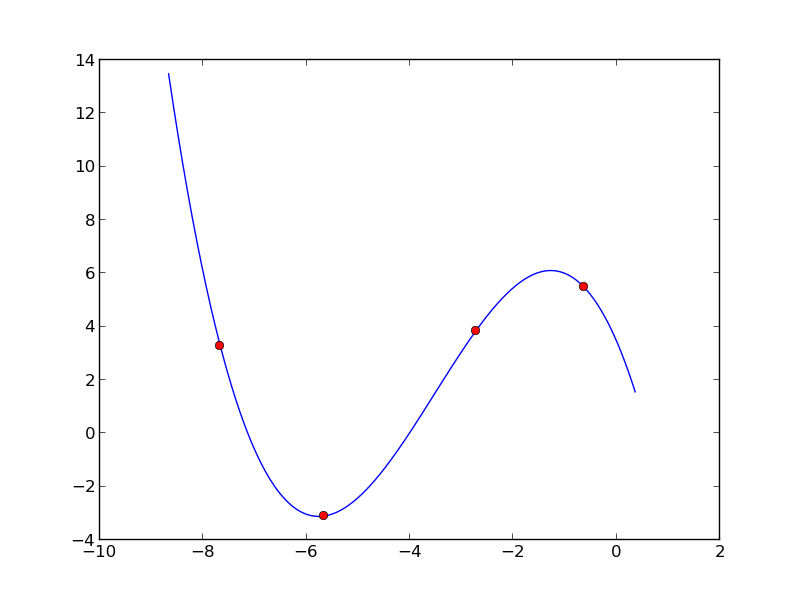
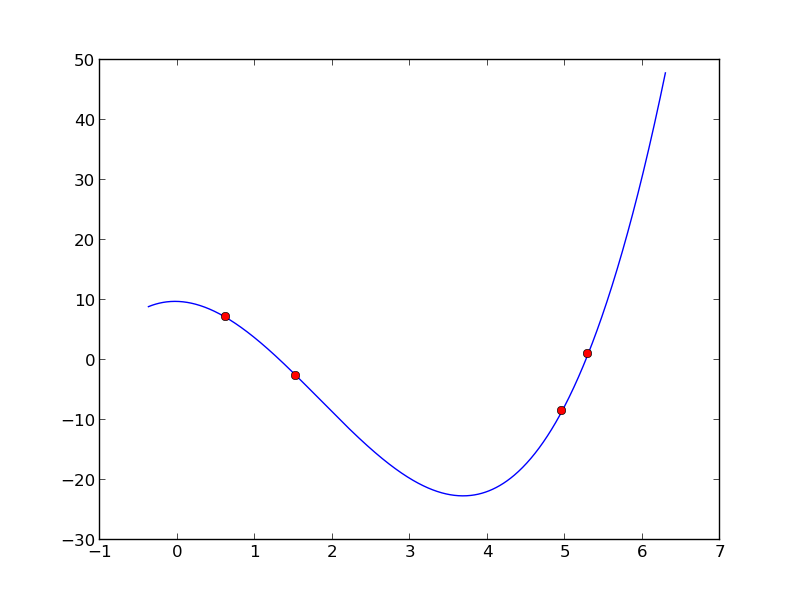
updated finished hw2 and fixed gitignore

diff --git a/homework2/hw2b.py b/homework2/hw2b.py
@@ -28,6 +28,21 @@ def cubic_interp(xi,yi):
 	c= np.linalg.solve(A,yi)
 	return c
 
+def poly_interp(xi,yi):
+	""" does a little cubic interpolation returning the coefficient array c"""	
+	error_message = "xi, yi need to be type numpy.ndarray"
+	assert (type(xi) is np.ndarray) and (type(yi) is np.ndarray), error_message
+	n = len(xi)
+	error_message = "You need the same number points"
+	assert (len(xi)==n) and (len(yi)==n), error_message
+	error_message = "The xi points have to be unique!"
+	assert (len(xi) == len(np.unique(xi))), error_message
+
+	xstack = [ xi**i for i in xrange(0,n)]
+	A = np.vstack(xstack).T
+	c= np.linalg.solve(A,yi)
+	return c
+
 def test_quad1():
 	""" This tests quad_interp with a specific set of points"""
 	xi = np.array([-1.,  0.,  2.])
@@ -51,6 +66,13 @@ def test_cubic():
 	yi = -10 +np.random.sample(4)*20
 	plot_cubic(xi,yi)
 	print "ok!"
+def test_poly():
+	number_of_points = np.random.randint(4,10)
+	""" This tests poly_interp with a random set of points"""
+	xi = -10 +np.random.sample(number_of_points)*20
+	yi = -10 +np.random.sample(number_of_points)*20
+	plot_poly(xi,yi)
+	print "ok!"
 
 def plot_quad(xi,yi):
 	"""plot the stuff"""
@@ -73,6 +95,20 @@ def plot_cubic(xi,yi):
 	plt.plot(x,y)
 	plt.plot(xi,yi,'ro')
 	plt.savefig('cubic.png')
+
+def plot_poly(xi,yi):
+	n = len(xi)
+	"""plot the stuff"""
+	plt.figure(1)
+	plt.clf()  
+	c = poly_interp(xi,yi)
+	x = np.linspace(xi.min() - 1,  xi.max() + 1, 1000)
+	y = c[n-1]
+	for j in range(n-1,0,-1):
+		y=y*x + c[j-1]
+	plt.plot(x,y)
+	plt.plot(xi,yi,'ro')
+	plt.savefig('poly.png')
 
 
 if __name__=="__main__":
